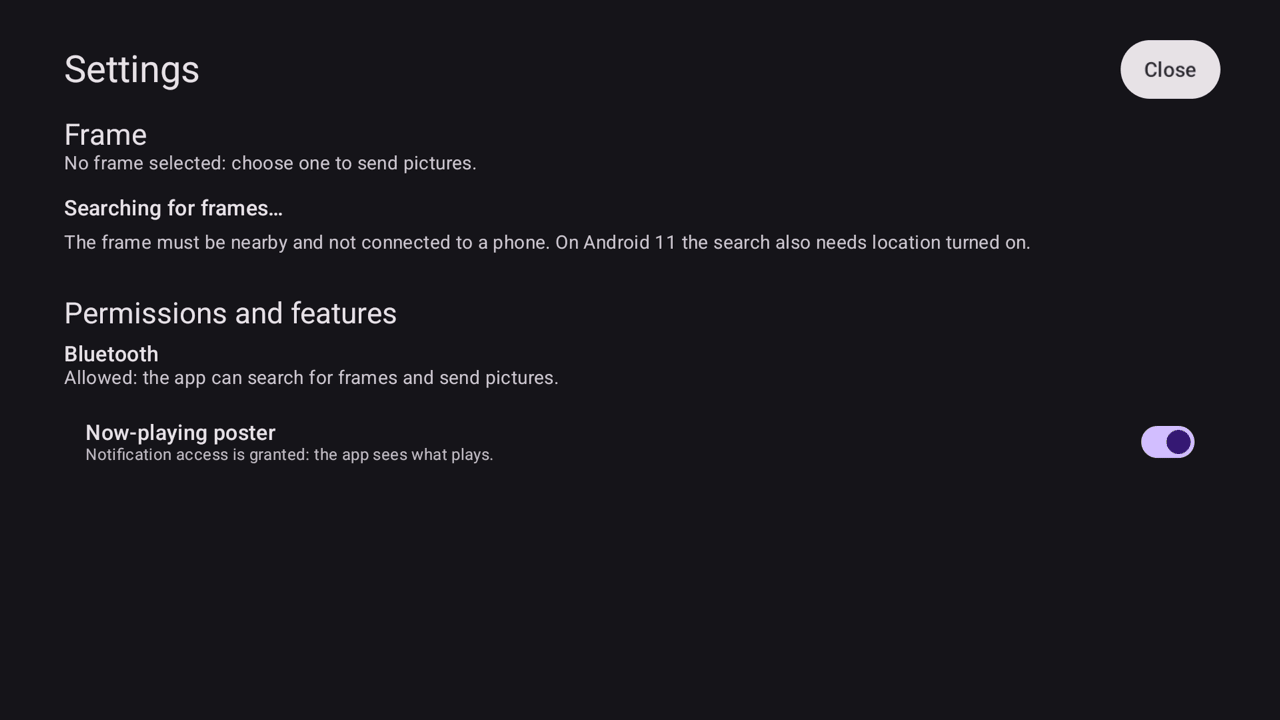
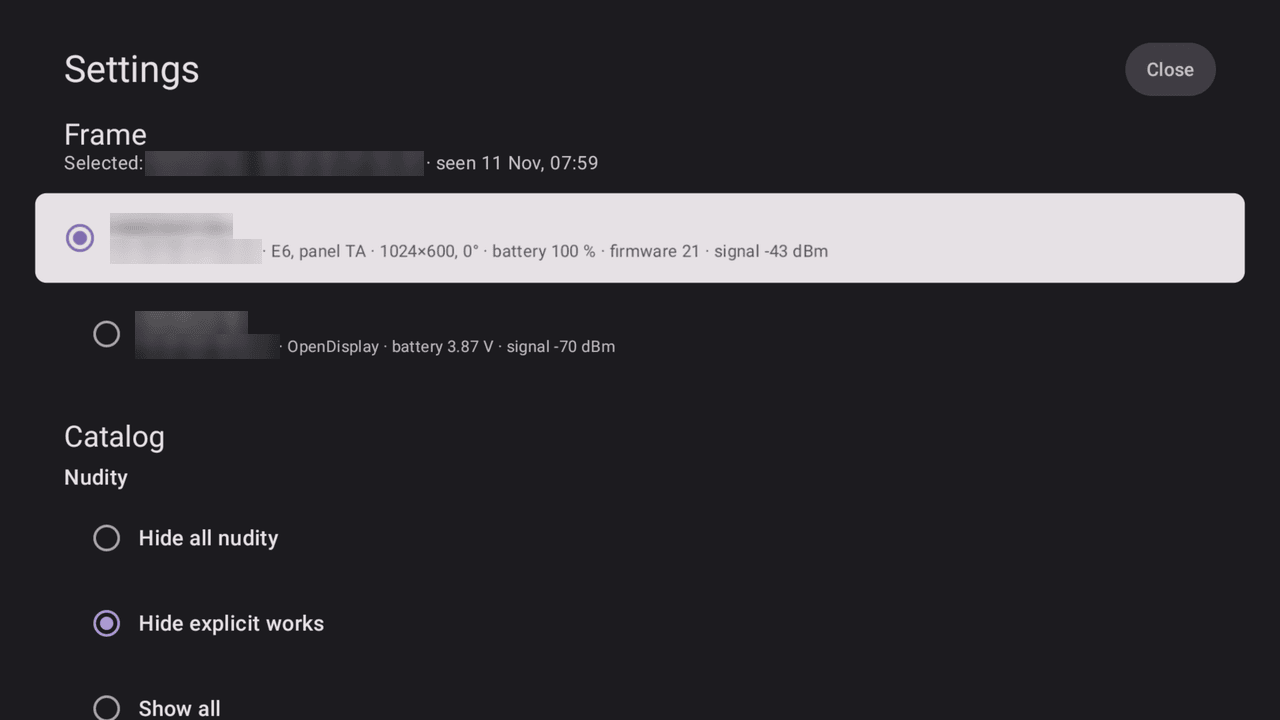
Refresh the README screenshots
The catalog shots show the current Catalog / My pictures tabs; the
settings shot shows the frame list with its radio marks and the nudity
filter as a radio group. Frame names and addresses are blurred.

diff --git a/README.md b/README.md
@@ -13,7 +13,7 @@ frame straight from the gallery. License: [Apache-2.0](LICENSE).
 |---|---|
 | ![The catalog on Android TV: a tab of picture cards in four columns](docs/screenshots/tv-catalog.png) | ![The catalog on a tablet in portrait: three columns](docs/screenshots/tablet-catalog.png) |
 
-![Settings: the frame search and "Permissions and features"](docs/screenshots/settings.png)
+![Settings: the frames found nearby, with the chosen one marked, and the Catalog nudity filter](docs/screenshots/settings.png)
 
 ## Supported frames
 
